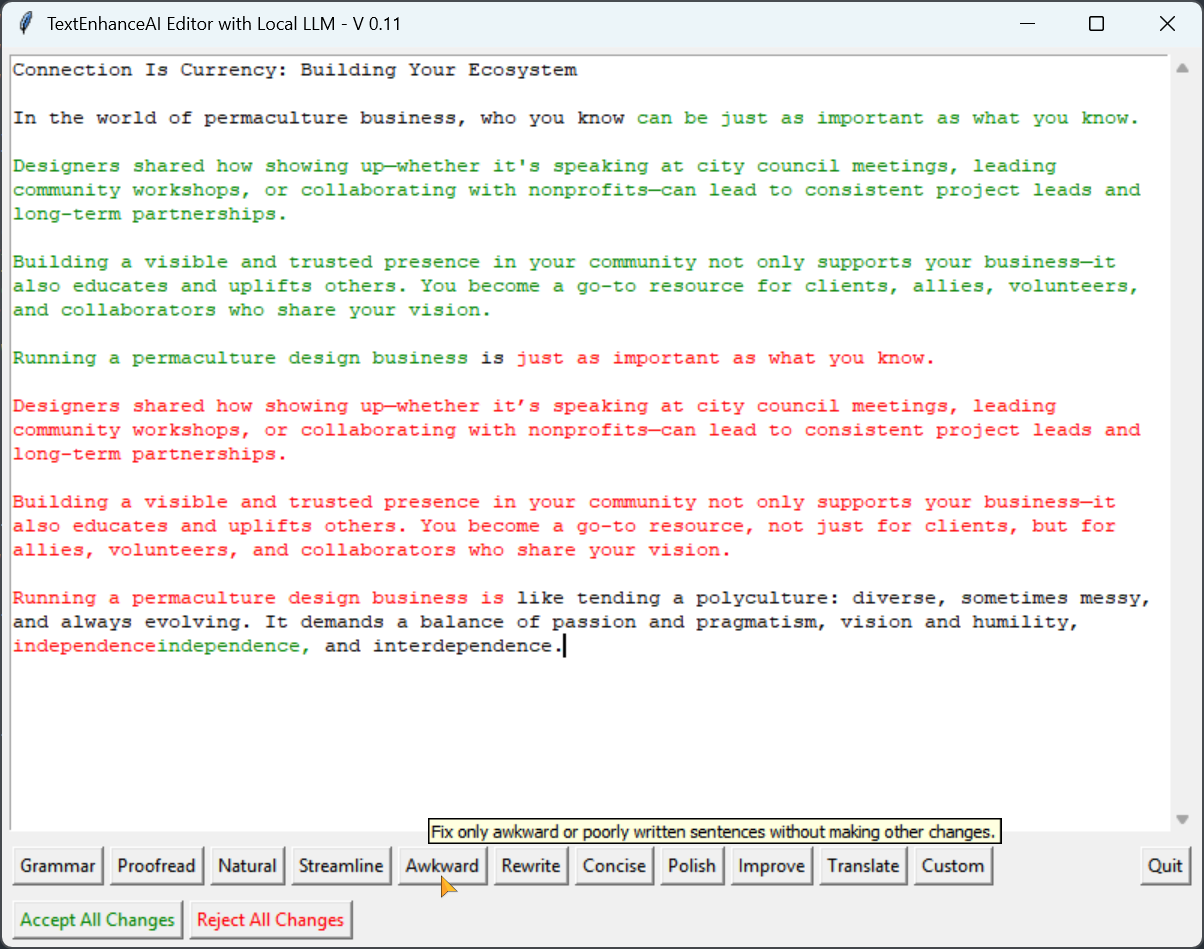
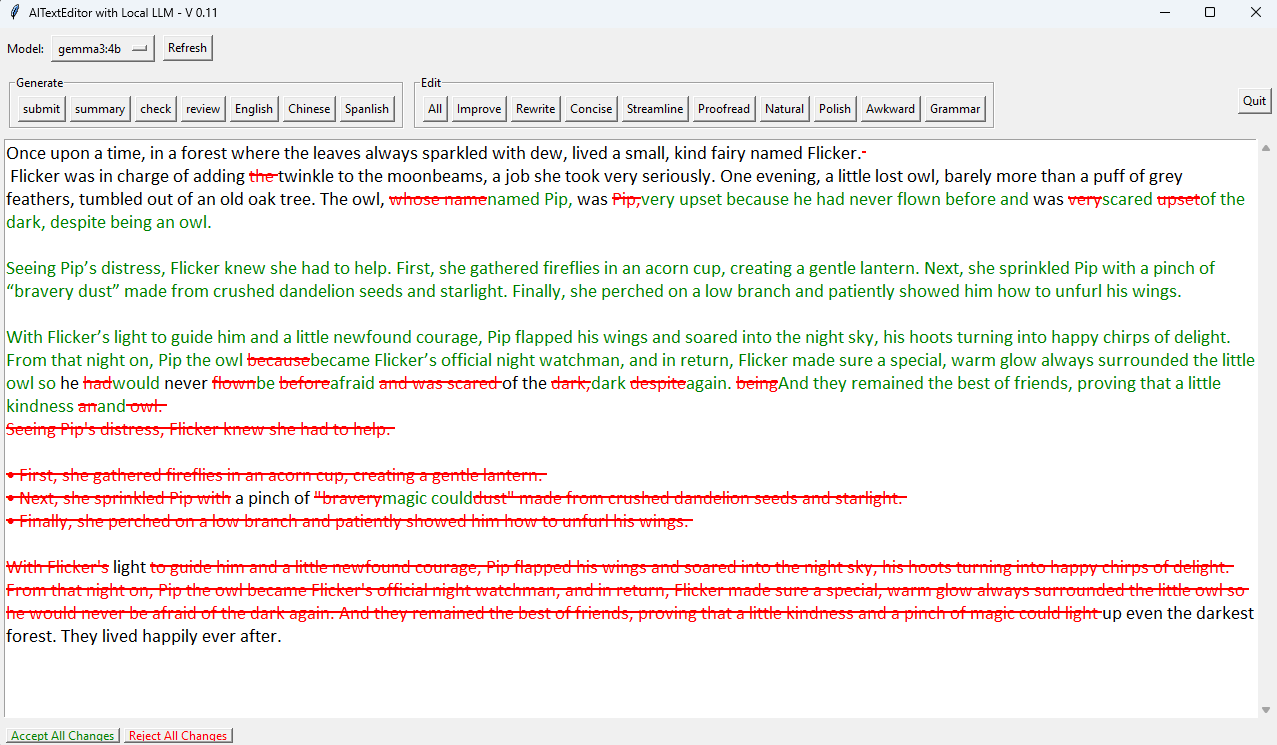
Update README.md

diff --git a/README.md b/README.md
@@ -15,13 +15,13 @@ Forked from [TextEnhanceAI](https://github.com/wenrolland/TextEnhanceAI)
 
 2. **Multiple Editing Modes**  
    - Built-in prompts let you quickly fix grammar, streamline awkward phrases, or make your text more concise.  
-   - A customizable “Custom Prompt” option allows you to craft specialized instructions for the LLM.
+   - A direct "submit" button allows you to use specialized instructions in the editor for the LLM.
 
 3. **Accept / Reject All Changes**  
    - Quickly apply all AI-suggested edits with “Accept All Changes,” or revert them entirely with “Reject All Changes.”  
 
 4. **Scratchpad Logging**  
-   - Every edit is logged to a Markdown scratchpad file. [Example](/TextEnhanceAI-scratchpad_20250605_191604.md)
+   - Every edit is logged to a Markdown scratchpad file.
    - The original user text and the LLM’s edited text are saved side by side, with any removed/added words highlighted in **bold** Markdown, helping you track changes over time.
 
 5. **Local LLM Support**  
@@ -31,7 +31,7 @@ Forked from [TextEnhanceAI](https://github.com/wenrolland/TextEnhanceAI)
 ## Getting Started
 
 1. **Install Requirements**  
-   - Ensure Python 3.7+ is [installed](https://www.python.org/downloads/).  
+   - Ensure Python 3.7+ is installed.  
    - Install the [Ollama](https://github.com/ollama/ollama) package.
    - Download gemma3:4b in Ollama :
       ```bash
@@ -54,7 +54,10 @@ Forked from [TextEnhanceAI](https://github.com/wenrolland/TextEnhanceAI)
    - Click on an editing button (e.g., “Grammar,” “Proofread”) to send a prompt to the local LLM.  
    - The edited text will be displayed inline, with suggested deletions in red and additions in green.
 
-5. **Accept/Reject Changes**  
-   - When ready, you can accept all or reject all the AI-suggested edits.
-   - The edition scratchpad is saved in the same directory. This way, you can review the output, whatever your choices.
-   - When done, simply copy the text and paste it where you want to use it.
+
+## TODO
+
+- [x] Adds Model dropdown menu to choose models 
+
+- [ ] improve inline diff
+
